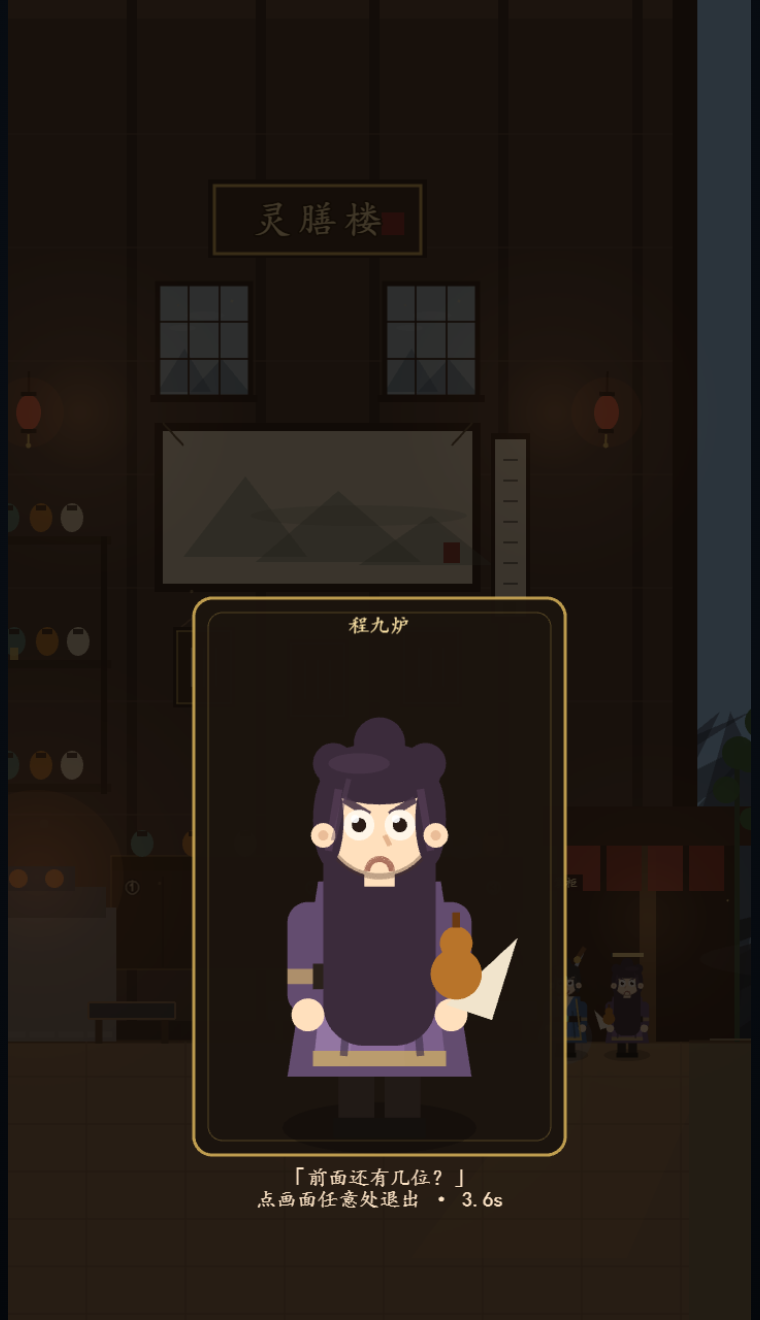
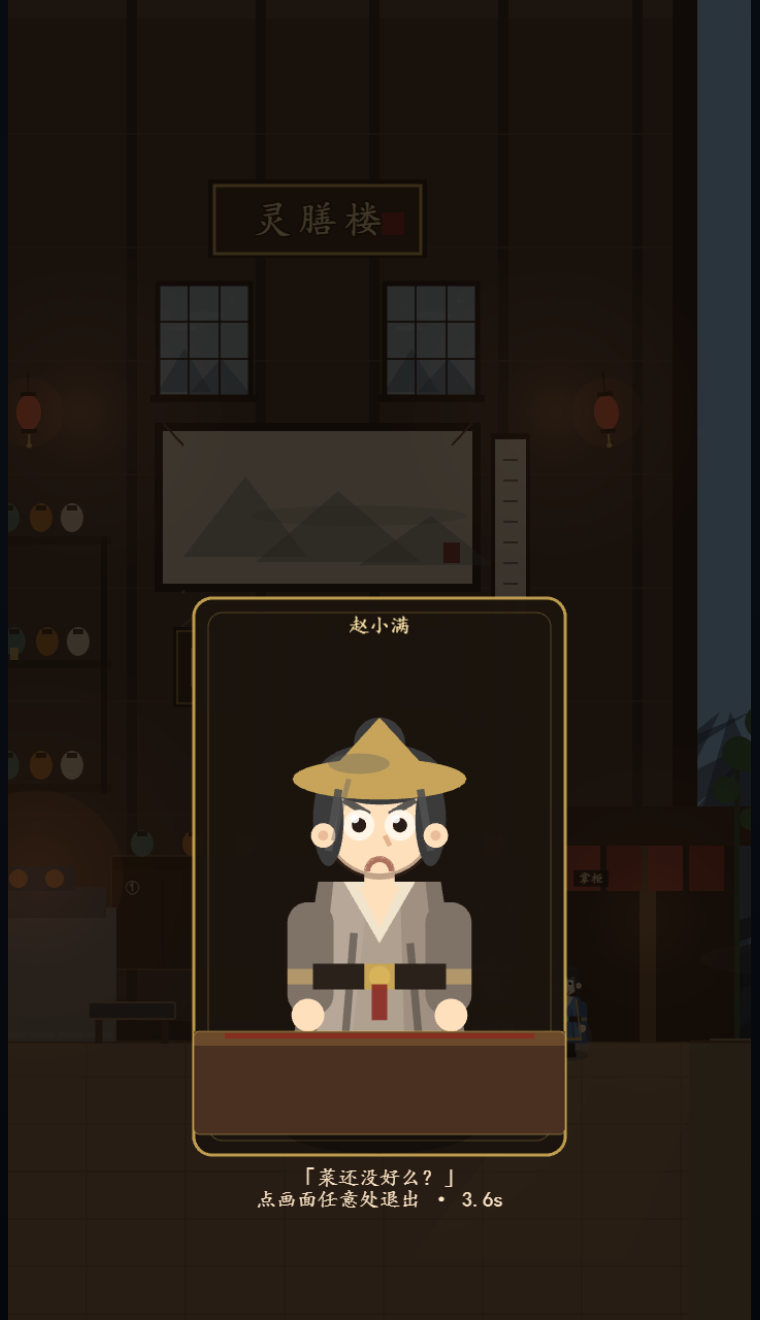
人物卡内桌沿、HUD 分列、4 桌交错
- 等菜/用膳人物卡加桌沿红案，人物在桌后、双手搭桌；用膳碗在桌沿
- HUD 修为/目标右移，排队下位不再和修为挤字
- 4 张桌子起桌号/订单卡交错两行
- 记录单盲评 7（7/7/6.5/7）

diff --git a/src/main.ts b/src/main.ts
@@ -1177,6 +1177,7 @@ class TavernScene extends Phaser.Scene {
   private focusPanel?: Phaser.GameObjects.Graphics;
   private focusPortrait?: Character;
   private focusProp?: Phaser.GameObjects.Container;
+  private focusTable?: Phaser.GameObjects.Graphics;
   private focusName?: Phaser.GameObjects.Text;
   private eventToast?: Phaser.GameObjects.Text;
   private hintToast?: Phaser.GameObjects.Text;
@@ -2518,8 +2519,8 @@ class TavernScene extends Phaser.Scene {
     this.levelText = this.addUiText(400, 10, "", "18px", "#87ceeb");
     this.queueText = this.addUiText(24, 38, "", "20px", "#e0b0ff");
     this.realmText = this.addUiText(400, 10, "", "18px", "#ffd98a");
-    this.cultivationText = this.addUiText(230, 38, "", "18px", "#d8c8ff");
-    this.goalText = this.addUiText(410, 38, "", "21px", "#9fdf6a");
+    this.cultivationText = this.addUiText(300, 38, "", "18px", "#d8c8ff");
+    this.goalText = this.addUiText(450, 38, "", "21px", "#9fdf6a");
     this.goalText.setWordWrapWidth(280);
     this.sessionText = this.addUiText(24, 64, "", "19px", "#a8d8ff");
     this.chronicleText = this.addUiText(24, 92, "", "19px", "#cccccc");
@@ -2803,7 +2804,7 @@ class TavernScene extends Phaser.Scene {
         .setSize(Math.max(30, width - 14), 5)
         .setVisible(this.gameState === "open" && this.level >= 2);
       // 桌子多时交错两行放标签，避免相邻两桌的文字叠在一起
-      const stagger = total > 4 ? (i % 2) * 46 : 0;
+      const stagger = total >= 4 ? (i % 2) * 46 : 0;
       v.number
         .setText(TABLE_MARKS[i] ?? `${i + 1}`)
         .setPosition(x, FLOOR_Y - 150 - stagger)
@@ -4769,8 +4770,21 @@ class TavernScene extends Phaser.Scene {
       .setOrigin(0.5)
       .setScrollFactor(0)
       .setDepth(102);
+    if (spec.seated || spec.dining) {
+      // 卡内也给出桌沿/桌面，坐下的人不是悬空半身像
+      const table = this.add.graphics().setScrollFactor(0).setDepth(101.55);
+      table.fillStyle(0x4a3020, 1);
+      table.fillRoundedRect(180, 1000, 360, 100, 6);
+      table.fillStyle(0x6a4a2a, 1);
+      table.fillRect(180, 1000, 360, 14);
+      table.fillStyle(0x8a2a22, 0.9);
+      table.fillRect(210, 1002, 300, 5);
+      table.lineStyle(1, 0xd9b45a, 0.5);
+      table.strokeRoundedRect(180, 1000, 360, 100, 6);
+      this.focusTable = table;
+    }
     if (spec.dining) {
-      const prop = this.add.container(360, 958).setScrollFactor(0).setDepth(101.6);
+      const prop = this.add.container(360, 970).setScrollFactor(0).setDepth(101.6);
       const bowl = this.add.ellipse(0, 0, 130, 44, 0xf1e4cc);
       const rim = this.add.ellipse(0, -2, 108, 30, 0xe8d8bc);
       const soup = this.add.ellipse(0, -2, 80, 20, 0xd98a4a);
@@ -4814,6 +4828,8 @@ class TavernScene extends Phaser.Scene {
     this.focusPortrait = undefined;
     this.focusProp?.destroy();
     this.focusProp = undefined;
+    this.focusTable?.destroy();
+    this.focusTable = undefined;
     this.focusCaption?.destroy();
     this.focusCaption = undefined;
     this.focusName?.destroy();

diff --git a/docs/playtest.md b/docs/playtest.md
@@ -58,7 +58,7 @@
 - 已补：排队基准位 315/间距 38 → 300/34（3 人时第三人屏幕 x≈668，实测 600/634/668）；欠身 4° / 16px 下压 + 脚下金环（1.5s）+ 四颗灵光，特写中加「再点一次退出」浮签；Lv2 小灯放大并加光晕，配合桌面红案与金边；每桌常驻 ①②③ 桌号，动态桌卡只显示菜名/入座，烹饪日志写明「为 N 号桌烹制」；气泡先完整显示 1.7 秒再淡出；出菜提示 18px、桌卡 15px、事件行 19px。
 - 聚焦复核（art6）：7 / 7 / 6 / 6，指出 3/3 第三人裁切、气泡太淡、金环 <700ms、桌号不常驻、Lv2 小灯不显。以上五点随后已修，并用本机脚本确认 3 人屏幕 x=600/634/668、桌号 ①②③ 常驻、特写浮签存在、无脚本错误；未再跑第三轮独立评分。
 - 五点复验（art7）：排队、气泡、欠身/金环/浮签、常驻桌号全部解决；Lv2 壁灯仍偏弱，分数 **第一眼 8 / 人物 8 / 沉浸 7 / 想再来一天 7**。随后把 Lv2 双壁灯改成**正中一盏大红灯笼**（半径 56 的暖晕、金色上下箍与流苏）。再次复核：Lv2 与 Lv1 一眼可分、暖光成立，**沉浸感升到 8**；最终独立分数为 **8 / 8 / 8 / 7**。
-- 当前独立评分：早前聚焦单轮美术修正的复核为 **美术总监 8/8/8/7**、**休闲玩家 7/7/6/6**；2026-10-24 晚三名全新盲评中位 **7/6/6/6**；之后六次最终构建单盲评分别为 **6/6/5.5/7**、**8/7/6.5/7**、**7/5/6.5/6.5**、**7/5.5/6/6.5**、**7.5/3.5/4.5/5**、**8/7/7/6**。人物分从 3.5 到 7，差异极大；第五名评审很可能拍到了门口队列客而非桌后用膳客（见单盲评 5），第六名点桌卡看到了坐姿与常客。人物卡/升级附赠/结算目标框是在这之后加的，尚未复评；仍然没有真人样本。
+- 当前独立评分：早前聚焦单轮美术修正的复核为 **美术总监 8/8/8/7**、**休闲玩家 7/7/6/6**；2026-10-24 晚三名全新盲评中位 **7/6/6/6**；之后七次最终构建单盲评分别为 **6/6/5.5/7**、**8/7/6.5/7**、**7/5/6.5/6.5**、**7/5.5/6/6.5**、**7.5/3.5/4.5/5**、**8/7/7/6**、**7/7/6.5/7**。人物分从 3.5 到 7，差异极大；第五名评审很可能拍到了门口队列客而非桌后用膳客（见单盲评 5）；第六/第七名都看到了 7 分的人物卡。人物卡内桌沿、HUD 移位、4 桌交错是在这之后加的，尚未复评；仍然没有真人样本。
 
 ## 本轮长时体验修复（2026-10-24 晚）
 
@@ -189,6 +189,19 @@
 - **碰杯字**停留 1.05→1.6 秒，酒花延长到 0.9 秒；用膳嘴加笑弧。
 - 仍未解决：人物仍是矢量纸片、无骨骼肘膝；卡是“放大+构图”，不是真正的头肩立绘；60 秒对慢节奏玩家紧；390 信息密度；右侧天空色条。
 
+## 单盲评 7（人物卡前，2026-10-24 晚）
+
+第七名全新手机盲评（390×844，两天，点桌卡看人物卡）：**第一眼 7 / 人物 7 / 沉浸 6.5 / 想再来一天 7**，总评 6.8，愿意再玩。它验证：日 1 8 位、8 库存、0 流失、目标达成、结算 108 灵石；日 2 升级 Lv2（4 雅座、金边、红幡、灵米粥、+5 灵材）、清炒灵蔬 +33%、常客「柳含烟（常客）第 2 次来」人物卡、餐厅人物卡里的脸/腮红/张嘴/衣褶/双手/面碗/蒸汽、两桌碰杯的欠身/金花/「碰杯」字。
+
+它仍指出：等菜客人的人物卡没有桌子/坐姿线索（只是半身像）；390 HUD 排队/修为/目标挤在一起；碰杯时玩家挡住一位食客；4 张桌子让桌号和订单卡变挤；目标偏容易（日 1 8/5、日 2 93/46）；排队满/缺货警告没遇到。
+
+盲评后追加（仅本地截图/脚本，无新分数）：
+
+- 人物卡的所有坐姿客人（等菜/用膳）在卡内加桌沿/红案，人物在桌后、双手搭桌；等菜卡也有“坐在这里”的线索；用膳碗放在桌沿上。
+- HUD 修为/目标列右移（230/410→300/450），排队“下位 Ns”不再和修为贴在一起。
+- 4 张桌子起桌号/订单卡交错两行，避免相邻桌贴字。
+- 仍未解决：人物仍是矢量纸片/无骨骼；碰杯时玩家可能挡人；目标值仍偏容易；排队满/缺货流程没有在这轮盲评里被触发。
+
 ## 当前构建的实测
 
 | 场景（严格说明注入条件） | 服务食客 | 收入 | 工资 | 结果 |
@@ -310,7 +323,7 @@
 - 这是**本机自动化试玩 + 两次独立盲测（AI 评审）**，没有真人玩家样本、全球排行榜或第三方媒体评测，因此不能据此证明「全世界最好玩」；它证明的是「有一款完整、可复现、经过盲测并针对主要问题迭代过的游戏」。
 - 盲测分数是各轮修复前的快照（第一轮 4/10、3/10；第二轮 5/10、5/10；第三轮 5.5/10、6/10）。第三轮设计师的测试中途被仓库 HMR 打断并重跑，前后可能不是同一版本；分数只代表盲测当时看到的东西，不是长期结论。
 - 没有云存档/全球排行；跨设备迁移依赖手动 `LS1.` 导出码。
-- 今日招牌、升级成本、手机字号、首日节奏与用膳特写已进入单盲评 2（8/7/6.5/7）；常客身份、急购提示、菜单 ◆、目标日志前缀在单盲评 2 后修；用餐 4.5s、两桌碰杯每 7 秒、人物卡 4.2×、全员入座坐姿/桌沿碗手、整桌点击看客、特写补回营业时间、第一天 90s、升级附赠 5 灵材、结算目标金框、常客每日保底、招牌实际百分比、「下位 Ns」、菜单 0.995、升级 toast 在单盲评 3/4/5/6 后修。这些最后的改动只有本地脚本/截图核对，没有新的盲评分；修复后的完整复测工作流仍在启动约 27 秒后挂起。
+- 今日招牌、升级成本、手机字号、首日节奏与用膳特写已进入单盲评 2（8/7/6.5/7）；常客身份、急购提示、菜单 ◆、目标日志前缀在单盲评 2 后修；用餐 4.5s、两桌碰杯每 7 秒、人物卡 4.2×+卡内桌沿、全员入座坐姿/桌沿碗手、整桌点击看客、特写补回营业时间、第一天 90s、升级附赠 5 灵材、结算目标金框、HUD 列右移、4 桌交错、常客每日保底、招牌实际百分比、「下位 Ns」、菜单 0.995、升级 toast 在单盲评 3/4/5/6/7 后修。这些最后的改动只有本地脚本/截图核对，没有新的盲评分；修复后的完整复测工作流仍在启动约 27 秒后挂起。
 - 底部按钮从 4 个变成 5 个，390px 手机宽度下最右的「吆喝」命中区约 35×47 CSS px；仍需真机手指复验。
 - 6 日长跑证明了目标可达与常客跨日延续，但灵材是注入的、操作是脚本，且常客在脚本下都爱上同一道菜；不能替代真人长时体验。
 - 音频只验证了乐句结构、开关与不报错，未做人耳听感评估。
